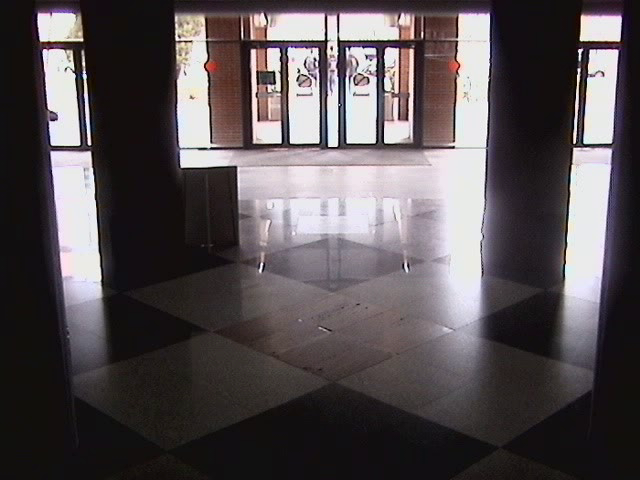
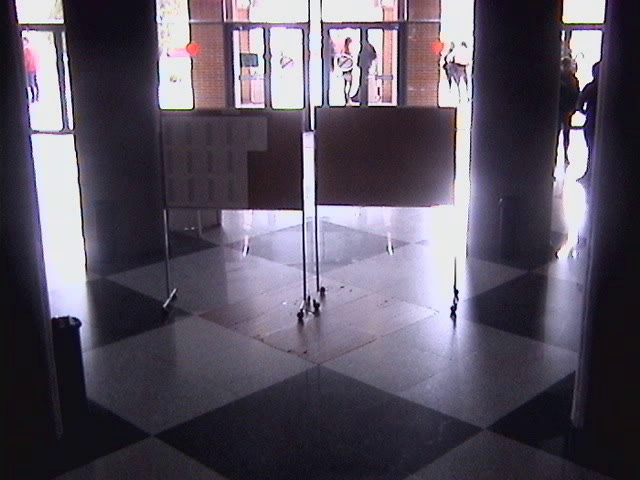
New homography points for second recording.
The drawing of the floor has been changed. fillConvexPoly is no more used.

diff --git a/ApplicationCode/camerastream.cpp b/ApplicationCode/camerastream.cpp
@@ -277,31 +277,42 @@ void CameraStream::ProjectFloorPoints()
     compare(SemanticImageGray, 3, FloorMask, CMP_EQ);
     findNonZero(FloorMask == 255, FloorPoints);
 
+    //String title = "Floor Mask" + to_string(CameraNumber);
+    //imshow(title, FloorMask);
+
     // Convert from Point to Point2f floor coordinates
     vector<Point2f> FloorPoints2(FloorPoints.begin(), FloorPoints.end());
 
     // Apply Homography to vector of Points2f to find the projection of the floor
     perspectiveTransform(FloorPoints2, ProjectedFloor, Homography);
+    ProjectedFloorVector = ProjectedFloor;
 
-    // Convert vector of points2f to array of point (needed for fillConvexPoly to be Point)
-    NumberFloorPoints = static_cast<int>(FloorPoints.size());
-    ArrayProjectedFloorPoints = new Point[NumberFloorPoints];
-    copy(ProjectedFloor.begin(), ProjectedFloor.end(), ArrayProjectedFloorPoints);
+    // Extract number of Floor Points
+    NumberFloorPoints = static_cast<int>(ProjectedFloorVector.size());
 }
 
 void CameraStream::drawSemantic(Mat &CenitalPlane)
 {
     Mat overlay;
     double alpha = 0.3;
-    Scalar Color;
+    Vec3b Color;
 
     // Select color depending on the CameraNumber
-    if (CameraNumber == 1)
-        Color = Scalar(0,255,0);
-    if (CameraNumber == 2)
-        Color = Scalar(255,0,0);
-    if (CameraNumber == 3)
-        Color = Scalar(0,0,255);
+    if (CameraNumber == 1){
+        Color.val[0] = 0;
+        Color.val[1] = 255;
+        Color.val[2] = 0;
+    }
+    if (CameraNumber == 2){
+        Color.val[0] = 255;
+        Color.val[1] = 0;
+        Color.val[2] = 0;
+    }
+    if (CameraNumber == 3){
+        Color.val[0] = 0;
+        Color.val[1] = 0;
+        Color.val[2] = 255;
+    }
 
     // Clean previous cenital view
     string CenitalPath;
@@ -318,8 +329,16 @@ void CameraStream::drawSemantic(Mat &CenitalPlane)
     // Copy the cenital image to an overlay layer
     CenitalPlane.copyTo(overlay);
 
+    for (int i = 0 ; i < NumberFloorPoints ; i++){
+        Point punto = ProjectedFloorVector[i];
+        if ((punto.y > 0 && punto.y < overlay.rows) && (punto.x > 0 && punto.x < overlay.cols)){
+            overlay.at<Vec3b>(punto.y, punto.x) = Color;
+        }
+    }
+    //String title = "Projected floor mask" + to_string(CameraNumber);
+    //imshow(title, overlay);
+
     // Create the convex poligon from array of Point and add transparency to the final image
-    fillConvexPoly(overlay, ArrayProjectedFloorPoints, NumberFloorPoints, Color );
     addWeighted(overlay, alpha, CenitalPlane, 1 - alpha, 0, CenitalPlane);
 
     // Last camera converts image to CV_32FC3

diff --git a/ApplicationCode/mainwindow.cpp b/ApplicationCode/mainwindow.cpp
@@ -35,10 +35,6 @@ MainWindow::MainWindow(QWidget *parent) :
 
 MainWindow::~MainWindow()
 {
-    // Memory free
-    delete [] Camera1.ArrayProjectedFloorPoints;
-    delete [] Camera2.ArrayProjectedFloorPoints;
-    delete [] Camera3.ArrayProjectedFloorPoints;
     delete ui;
 }
 
@@ -91,9 +87,9 @@ void MainWindow::on_actionOpen_file_triggered()
         Camera3.InputPath = filenames.at(Camera3.CameraNumber - 1).toStdString();
     }
     else {
-        Camera1.InputPath = "/Users/alex/Desktop/TFM Videos/Sincronizados/Recording 1/Videos/Camera1Sync.m2v";
-        Camera2.InputPath = "/Users/alex/Desktop/TFM Videos/Sincronizados/Recording 1/Videos/Camera2Sync.m2v";
-        Camera3.InputPath = "/Users/alex/Desktop/TFM Videos/Sincronizados/Recording 1/Videos/Camera3Sync.m2v";
+        Camera1.InputPath = "/Users/alex/Desktop/TFM Videos/Sincronizados/Recording 2/Videos/Camera1Sync.m2v";
+        Camera2.InputPath = "/Users/alex/Desktop/TFM Videos/Sincronizados/Recording 2/Videos/Camera2Sync.m2v";
+        Camera3.InputPath = "/Users/alex/Desktop/TFM Videos/Sincronizados/Recording 2/Videos/Camera3Sync.m2v";
     }
 
     // Open Video Streams
@@ -197,6 +193,8 @@ void MainWindow::ProcessVideo()
     Camera1.drawSemantic(CenitalPlane);
     Camera2.drawSemantic(CenitalPlane);
     Camera3.drawSemantic(CenitalPlane);
+
+    waitKey(1);
 
     if (atoi(FrameNumber.c_str()) == 1) {
         Camera1.saveWarpImages(Camera1.ActualFrame, Camera1.Homography, FrameNumber);

diff --git a/ApplicationCode/camerastream.h b/ApplicationCode/camerastream.h
@@ -48,7 +48,7 @@ public:
     void saveWarpImages(Mat ActualFrame, Mat Homography, String FrameNumber);
 
     // Semantic Projection
-    Point* ArrayProjectedFloorPoints;
+    vector<Point2f> ProjectedFloorVector;
     int NumberFloorPoints;
     void ProjectFloorPoints();
     void drawSemantic(Mat& CenitalPlane);
